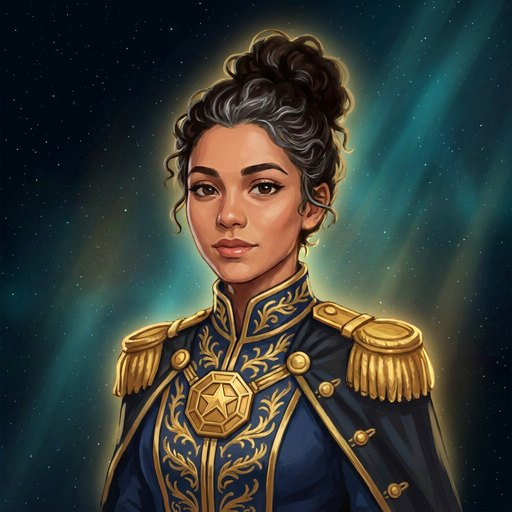
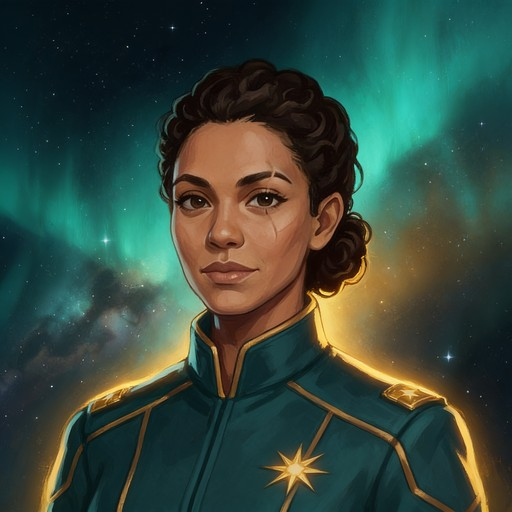
Avatares: Comandante (r4) rehecho en estilo STARGATE teal+oro (10) y reclutas de los personajes nuevos 6 y 7 (4)

diff --git a/guia.html b/guia.html
@@ -175,9 +175,11 @@ real</b> de la Bitácora y es un <b>trozo digerible</b> de la siguiente activida
 <details class="faq"><summary>¿Cuál es la diferencia entre Ludo (T6) y Vínculo (T7)?</summary><div>En <b>Ludo se juega</b>: el juego ES la actividad (ABJ). En <b>Vínculo no se juega</b>: se toman elementos del juego (puntos, insignias, niveles, narrativa) y se ponen sobre una tarea que no es un juego (gamificación). Es el error conceptual más común: apóyate en Joran y Mara.</div></details>
 <details class="faq"><summary>¿Cómo funciona el examen dentro de la historia?</summary><div>La batalla final ES el examen. En la semana 15 el vídeo <b>Plan de Ataque</b> lo presenta (caso, plataforma en directo, tablero de retos, reglas). Los tests de cada tema son el entrenamiento; la última semana hay repaso y simulacro.</div></details>
 <details class="faq"><summary>¿Puedo mencionar Genially o la asignatura en público?</summary><div>En comunicación pública (redes, web abierta) el proyecto se nombra siempre «Proyecto Gamificado del Máster en Tecnología Educativa de la UNIR», sin la asignatura y sin citar herramientas. Dentro del aula y en este puesto de mando, sin problema.</div></details>
-<details class="faq"><summary>¿Cómo registran los alumnos sus retos e insignias?</summary><div>Solos, en la <b>Bitácora de mando</b> de su PER (un formulario con inicio de sesión de Google y una única respuesta que editan cuando ganan una insignia). Los xp, las insignias y el <b>avatar con rango</b> se calculan automáticamente y se ven en el <a href='registro.html'>tablero</a>. Tú no tocas ninguna hoja.</div></details>
+<details class="faq"><summary>¿Cómo registran los alumnos sus retos e insignias?</summary><div>Solos, en la <b>Bitácora de mando</b> de su PER (un formulario con inicio de sesión de Google y una única respuesta que editan cuando ganan una insignia). Los xp, las insignias y el <b>avatar con rango</b> se calculan automáticamente y se ven en el <a href='registro.html'>tablero</a> y en su <a href='recluta.html'>Nave del Recluta</a>. Tú no tocas ninguna hoja.</div></details>
+<details class="faq"><summary>¿Qué es la Nave del Recluta?</summary><div>La <a href='recluta.html'>web del alumnado</a> de su PER: se identifican con su correo (una vez por dispositivo) y ven su <b>personaje con rango y biografía</b>, su colección de insignias, la orden de la semana, los planetas que se van desbloqueando y las recompensas. Tiene onboarding con NEBULA. Entrégales el enlace o el QR (están en el Doc de enlaces del PER).</div></details>
+<details class="faq"><summary>¿Qué es el panel de control de los planetas?</summary><div>El <a href='panel.html'>mapa de la galaxia</a>: los ocho planetas sobre el universo, cada uno enlazando a la presentación de su tema. Con <code>?per=</code> los planetas se <b>desbloquean solos</b> según el calendario del PER. Sirve como página o incrustado en Genially; el <b>referente</b> decide si el PER usa el panel estándar o una copia propia (Panel de profes → Ajustes).</div></details>
 <details class="faq"><summary>¿Qué son los xp y los rangos del avatar?</summary><div>Puntos del juego (no nota): Reto A 100 · Reto B 250 · Actividad 500 · Batalla 500 · hitos 300. El avatar del alumno <b>evoluciona</b> solo: Recluta → Cadete (1.000) → Oficial (2.500) → Comandante (4.000). Los xp se pueden canjear por recompensas (subir nota, recalificar…) con validación automática.</div></details>
-<details class="faq"><summary>¿Cómo abro un PER nuevo?</summary><div>Lo hace el <b>profesor/a referente</b> desde la hoja maestra (cuenta mutecdgami): menú STARGATE → Crear nuevo PER… (nombre, REGULAR/PUA, fecha de la semana 1, profesorado). En un minuto tienes los 3 formularios, el tablero, el foro dinámico y un documento con enlaces, embeds y QR. Guía en <a href='registro.html#instalacion'>Registro → Instalación</a>.</div></details>
+<details class="faq"><summary>¿Cómo abro un PER nuevo?</summary><div>Lo hace el <b>profesor/a referente</b> desde la hoja maestra (cuenta mutecdgami): menú STARGATE → Crear nuevo PER… (nombre, REGULAR/PUA, fecha de la semana 1, profesorado). En un minuto tienes los 3 formularios, el tablero, el foro dinámico, la Nave del Recluta y un <b>documento con todos los enlaces, embeds y QR</b> para repartir al profesorado. El referente también decide el <b>panel de control Genially</b> del PER (estándar o propio). Guía en <a href='registro.html#instalacion'>Registro → Instalación</a>.</div></details>
 <details class="faq"><summary>¿Qué hago si un alumno no hace el Reto A?</summary><div>Nada punitivo: no cuenta para nota. Pero el tripulante sigue «sin recuperar» y esos 100 xp se quedan sin ganar: usa la narrativa (NEBULA sigue incompleta) como invitación, no como castigo. Lo habitual es que el grupo arrastre.</div></details>
 </div></section>
 <footer><div class="wrap">

diff --git a/registro.html b/registro.html
@@ -54,10 +54,11 @@ lo que no puede faltar es tu ceremonia:</p>
 <div class="eyebrow teal">Dos papeles, un sistema</div><h2>¿Quién hace qué?</h2>
 <div class="grid cols-2">
 <div class="card"><h3>🛰 Profesorado referente <span class="pill">gestiona el PER</span></h3>
-<p>Trabaja en la <b>hoja maestra</b> (cuenta mutecdgami): <b>crea el PER</b> (menú STARGATE → Crear nuevo PER…, con la fecha de la semana 1 que marca el ritmo de todo el sistema), define el <b>PIN docente</b> y lo reparte, guarda el <b>panel de control estándar</b> de Genially, comparte el <b>Doc de enlaces, embeds y QR</b> con su equipo y abre/cierra los formularios. La chuleta completa está abajo, en <a href="#instalacion">el sistema por dentro</a>.</p></div>
+<p>Trabaja en la <b>hoja maestra</b> (cuenta mutecdgami): <b>crea el PER</b> (menú STARGATE → Crear nuevo PER…, con la fecha de la semana 1 que marca el ritmo de todo el sistema), define el <b>PIN docente</b> y lo reparte, <b>monta y actualiza el Genially del PER</b> (el panel de control: estándar compartido o copia propia), comparte el <b>Doc de enlaces, embeds y QR</b> con su equipo y abre/cierra los formularios. La chuleta completa está abajo, en <a href="#instalacion">el sistema por dentro</a>.</p></div>
 <div class="card"><h3>🎓 Profesorado que imparte <span class="pill">dinamiza el aula</span></h3>
-<p>No toca ninguna hoja: sigue la <a href="cronologia.html">cronología</a>, publica el mensaje del foro, entrega las insignias <b>con ceremonia</b> y usa con el PIN el <a href="profes.html">panel del PER</a> y los <a href="tickets.html">tickets</a>. Si quiere un <b>panel de control Genially propio</b> en vez del estándar: duplica el Genially y pega sus enlaces en Panel de profes → Ajustes del PER.</p></div>
+<p>No toca ninguna hoja: sigue la <a href="cronologia.html">cronología</a>, publica el mensaje del foro, entrega las insignias <b>con ceremonia</b> y usa con el PIN el <a href="profes.html">panel del PER</a> y los <a href="tickets.html">tickets</a>. Si quiere un <b>panel de control Genially propio</b> en vez del estándar: lo acuerda con su referente, que duplica el Genially y pega sus enlaces en Panel de profes → Ajustes del PER.</p></div>
 </div>
+<p class="small muted" style="margin-top:10px">En la mayoría de los PER el referente <b>también imparte</b>: entonces te tocan las dos columnas. La <b>visita guiada</b> de la portada pregunta tu papel y te enseña solo lo tuyo.</p>
 </div></section>
 
 <section id="orden"><div class="wrap">

diff --git a/recursos.html b/recursos.html
@@ -81,7 +81,7 @@ El resto de documentos oficiales están en <a href="actividades.html#docs">Activ
 <section><div class="wrap">
 <div class="eyebrow">Materiales</div><h2>Dónde está el material gráfico</h2>
 <div class="grid cols-2">
-<div class="card"><h3>Para montar Geniallys</h3><p>Fondos por planeta, clips de ambiente, personajes recortados, HUD, kit de interfaz, insignias y cartas: todo está en el paquete del equipo en Drive (carpeta <b>DRIVE_EQUIPO_STARGATE</b>, con el documento «Qué va en cada Genially» que lleva la miniatura de cada recurso).</p></div>
+<div class="card"><h3>Para montar Geniallys</h3><p>Fondos por planeta, clips de ambiente, personajes recortados, HUD, botones e iconos ya recortados, insignias y cartas: todo está en el paquete del equipo en Drive (carpeta <b>DRIVE_EQUIPO_STARGATE</b>, clasificado por tipo, con el documento «Qué va en cada Genially»). Novedades del paquete: los <b>planetas girando</b> en GIF/WebP sin fondo, sus <b>auras para el efecto latido</b>, el <b>fondo de universo en bucle</b> y un <b>pack de audio</b> (música ambiental + efectos de interfaz).</p></div>
 <div class="card"><h3>Vídeos</h3><p>Los 33 vídeos de la serie en la playlist de YouTube: <a href="https://www.youtube.com/playlist?list=PLKZsWVJaEna0" target="_blank" rel="noopener">STARGATE · La Bitácora Estelar ↗</a>. Cuándo usar cada uno: <a href="cronologia.html">cronología</a>.</p></div>
 </div>
 </div></section>

diff --git a/geniallys.html b/geniallys.html
@@ -27,7 +27,7 @@
 <div class="grid cols-3">
 <div class="card"><h3>1 · Entra y localiza tu perfil</h3><p>Dentro de la carpeta compartida hay una carpeta por <b>perfil</b>. En la tuya están los <b>Geniallys estándar</b> de los 8 planetas: puedes usarlos directamente en tus clases, sin montar nada.</p></div>
 <div class="card"><h3>2 · ¿Quieres personalizarlo? Haz una copia</h3><p>Si quieres modificar un Genially, <b>duplícalo primero</b> y trabaja sobre tu copia. <b>No edites los estándar.</b></p></div>
-<div class="card"><h3>3 · Ojo con el panel de control</h3><p>Los enlaces y embeds del sistema (panel, foro dinámico, tablero) apuntan a los <b>Geniallys estándar</b>. Si usas una copia modificada, tendrás que enlazarla tú en tus propios materiales.</p></div>
+<div class="card"><h3>3 · Ojo con el panel de control</h3><p>El <a href="panel.html"><b>panel de control</b></a> (el mapa de planetas que abre cada presentación) apunta a los <b>Geniallys estándar</b>. Si tu PER usa copias modificadas, el referente debe poner sus enlaces propios en <b>Panel de profes → Ajustes del PER</b>.</p></div>
 </div>
 </div></section>
 

diff --git a/_build_site.py b/_build_site.py
@@ -178,9 +178,11 @@ FAQ = [
  ("¿Cuál es la diferencia entre Ludo (T6) y Vínculo (T7)?", "En <b>Ludo se juega</b>: el juego ES la actividad (ABJ). En <b>Vínculo no se juega</b>: se toman elementos del juego (puntos, insignias, niveles, narrativa) y se ponen sobre una tarea que no es un juego (gamificación). Es el error conceptual más común: apóyate en Joran y Mara."),
  ("¿Cómo funciona el examen dentro de la historia?", "La batalla final ES el examen. En la semana 15 el vídeo <b>Plan de Ataque</b> lo presenta (caso, plataforma en directo, tablero de retos, reglas). Los tests de cada tema son el entrenamiento; la última semana hay repaso y simulacro."),
  ("¿Puedo mencionar Genially o la asignatura en público?", "En comunicación pública (redes, web abierta) el proyecto se nombra siempre «Proyecto Gamificado del Máster en Tecnología Educativa de la UNIR», sin la asignatura y sin citar herramientas. Dentro del aula y en este puesto de mando, sin problema."),
- ("¿Cómo registran los alumnos sus retos e insignias?", "Solos, en la <b>Bitácora de mando</b> de su PER (un formulario con inicio de sesión de Google y una única respuesta que editan cuando ganan una insignia). Los xp, las insignias y el <b>avatar con rango</b> se calculan automáticamente y se ven en el <a href='registro.html'>tablero</a>. Tú no tocas ninguna hoja."),
+ ("¿Cómo registran los alumnos sus retos e insignias?", "Solos, en la <b>Bitácora de mando</b> de su PER (un formulario con inicio de sesión de Google y una única respuesta que editan cuando ganan una insignia). Los xp, las insignias y el <b>avatar con rango</b> se calculan automáticamente y se ven en el <a href='registro.html'>tablero</a> y en su <a href='recluta.html'>Nave del Recluta</a>. Tú no tocas ninguna hoja."),
+ ("¿Qué es la Nave del Recluta?", "La <a href='recluta.html'>web del alumnado</a> de su PER: se identifican con su correo (una vez por dispositivo) y ven su <b>personaje con rango y biografía</b>, su colección de insignias, la orden de la semana, los planetas que se van desbloqueando y las recompensas. Tiene onboarding con NEBULA. Entrégales el enlace o el QR (están en el Doc de enlaces del PER)."),
+ ("¿Qué es el panel de control de los planetas?", "El <a href='panel.html'>mapa de la galaxia</a>: los ocho planetas sobre el universo, cada uno enlazando a la presentación de su tema. Con <code>?per=</code> los planetas se <b>desbloquean solos</b> según el calendario del PER. Sirve como página o incrustado en Genially; el <b>referente</b> decide si el PER usa el panel estándar o una copia propia (Panel de profes → Ajustes)."),
  ("¿Qué son los xp y los rangos del avatar?", "Puntos del juego (no nota): Reto A 100 · Reto B 250 · Actividad 500 · Batalla 500 · hitos 300. El avatar del alumno <b>evoluciona</b> solo: Recluta → Cadete (1.000) → Oficial (2.500) → Comandante (4.000). Los xp se pueden canjear por recompensas (subir nota, recalificar…) con validación automática."),
- ("¿Cómo abro un PER nuevo?", "Lo hace el <b>profesor/a referente</b> desde la hoja maestra (cuenta mutecdgami): menú STARGATE → Crear nuevo PER… (nombre, REGULAR/PUA, fecha de la semana 1, profesorado). En un minuto tienes los 3 formularios, el tablero, el foro dinámico y un documento con enlaces, embeds y QR. Guía en <a href='registro.html#instalacion'>Registro → Instalación</a>."),
+ ("¿Cómo abro un PER nuevo?", "Lo hace el <b>profesor/a referente</b> desde la hoja maestra (cuenta mutecdgami): menú STARGATE → Crear nuevo PER… (nombre, REGULAR/PUA, fecha de la semana 1, profesorado). En un minuto tienes los 3 formularios, el tablero, el foro dinámico, la Nave del Recluta y un <b>documento con todos los enlaces, embeds y QR</b> para repartir al profesorado. El referente también decide el <b>panel de control Genially</b> del PER (estándar o propio). Guía en <a href='registro.html#instalacion'>Registro → Instalación</a>."),
  ("¿Qué hago si un alumno no hace el Reto A?", "Nada punitivo: no cuenta para nota. Pero el tripulante sigue «sin recuperar» y esos 100 xp se quedan sin ganar: usa la narrativa (NEBULA sigue incompleta) como invitación, no como castigo. Lo habitual es que el grupo arrastre."),
 ]
 faq_html="\n".join(f'<details class="faq"><summary>{q}</summary><div>{a}</div></details>' for q,a in FAQ)
@@ -457,7 +459,7 @@ El resto de documentos oficiales están en <a href="actividades.html#docs">Activ
 <section><div class="wrap">
 <div class="eyebrow">Materiales</div><h2>Dónde está el material gráfico</h2>
 <div class="grid cols-2">
-<div class="card"><h3>Para montar Geniallys</h3><p>Fondos por planeta, clips de ambiente, personajes recortados, HUD, kit de interfaz, insignias y cartas: todo está en el paquete del equipo en Drive (carpeta <b>DRIVE_EQUIPO_STARGATE</b>, con el documento «Qué va en cada Genially» que lleva la miniatura de cada recurso).</p></div>
+<div class="card"><h3>Para montar Geniallys</h3><p>Fondos por planeta, clips de ambiente, personajes recortados, HUD, botones e iconos ya recortados, insignias y cartas: todo está en el paquete del equipo en Drive (carpeta <b>DRIVE_EQUIPO_STARGATE</b>, clasificado por tipo, con el documento «Qué va en cada Genially»). Novedades del paquete: los <b>planetas girando</b> en GIF/WebP sin fondo, sus <b>auras para el efecto latido</b>, el <b>fondo de universo en bucle</b> y un <b>pack de audio</b> (música ambiental + efectos de interfaz).</p></div>
 <div class="card"><h3>Vídeos</h3><p>Los 33 vídeos de la serie en la playlist de YouTube: <a href="{PLAYLIST}" target="_blank" rel="noopener">STARGATE · La Bitácora Estelar ↗</a>. Cuándo usar cada uno: <a href="cronologia.html">cronología</a>.</p></div>
 </div>
 </div></section>
@@ -576,7 +578,7 @@ GENPAGE = head("STARGATE · Los Geniallys",
 <div class="grid cols-3">
 <div class="card"><h3>1 · Entra y localiza tu perfil</h3><p>Dentro de la carpeta compartida hay una carpeta por <b>perfil</b>. En la tuya están los <b>Geniallys estándar</b> de los 8 planetas: puedes usarlos directamente en tus clases, sin montar nada.</p></div>
 <div class="card"><h3>2 · ¿Quieres personalizarlo? Haz una copia</h3><p>Si quieres modificar un Genially, <b>duplícalo primero</b> y trabaja sobre tu copia. <b>No edites los estándar.</b></p></div>
-<div class="card"><h3>3 · Ojo con el panel de control</h3><p>Los enlaces y embeds del sistema (panel, foro dinámico, tablero) apuntan a los <b>Geniallys estándar</b>. Si usas una copia modificada, tendrás que enlazarla tú en tus propios materiales.</p></div>
+<div class="card"><h3>3 · Ojo con el panel de control</h3><p>El <a href="panel.html"><b>panel de control</b></a> (el mapa de planetas que abre cada presentación) apunta a los <b>Geniallys estándar</b>. Si tu PER usa copias modificadas, el referente debe poner sus enlaces propios en <b>Panel de profes → Ajustes del PER</b>.</p></div>
 </div>
 </div></section>
 
@@ -641,10 +643,11 @@ lo que no puede faltar es tu ceremonia:</p>
 <div class="eyebrow teal">Dos papeles, un sistema</div><h2>¿Quién hace qué?</h2>
 <div class="grid cols-2">
 <div class="card"><h3>🛰 Profesorado referente <span class="pill">gestiona el PER</span></h3>
-<p>Trabaja en la <b>hoja maestra</b> (cuenta mutecdgami): <b>crea el PER</b> (menú STARGATE → Crear nuevo PER…, con la fecha de la semana 1 que marca el ritmo de todo el sistema), define el <b>PIN docente</b> y lo reparte, guarda el <b>panel de control estándar</b> de Genially, comparte el <b>Doc de enlaces, embeds y QR</b> con su equipo y abre/cierra los formularios. La chuleta completa está abajo, en <a href="#instalacion">el sistema por dentro</a>.</p></div>
+<p>Trabaja en la <b>hoja maestra</b> (cuenta mutecdgami): <b>crea el PER</b> (menú STARGATE → Crear nuevo PER…, con la fecha de la semana 1 que marca el ritmo de todo el sistema), define el <b>PIN docente</b> y lo reparte, <b>monta y actualiza el Genially del PER</b> (el panel de control: estándar compartido o copia propia), comparte el <b>Doc de enlaces, embeds y QR</b> con su equipo y abre/cierra los formularios. La chuleta completa está abajo, en <a href="#instalacion">el sistema por dentro</a>.</p></div>
 <div class="card"><h3>🎓 Profesorado que imparte <span class="pill">dinamiza el aula</span></h3>
-<p>No toca ninguna hoja: sigue la <a href="cronologia.html">cronología</a>, publica el mensaje del foro, entrega las insignias <b>con ceremonia</b> y usa con el PIN el <a href="profes.html">panel del PER</a> y los <a href="tickets.html">tickets</a>. Si quiere un <b>panel de control Genially propio</b> en vez del estándar: duplica el Genially y pega sus enlaces en Panel de profes → Ajustes del PER.</p></div>
+<p>No toca ninguna hoja: sigue la <a href="cronologia.html">cronología</a>, publica el mensaje del foro, entrega las insignias <b>con ceremonia</b> y usa con el PIN el <a href="profes.html">panel del PER</a> y los <a href="tickets.html">tickets</a>. Si quiere un <b>panel de control Genially propio</b> en vez del estándar: lo acuerda con su referente, que duplica el Genially y pega sus enlaces en Panel de profes → Ajustes del PER.</p></div>
 </div>
+<p class="small muted" style="margin-top:10px">En la mayoría de los PER el referente <b>también imparte</b>: entonces te tocan las dos columnas. La <b>visita guiada</b> de la portada pregunta tu papel y te enseña solo lo tuyo.</p>
 </div></section>
 
 <section id="orden"><div class="wrap">
